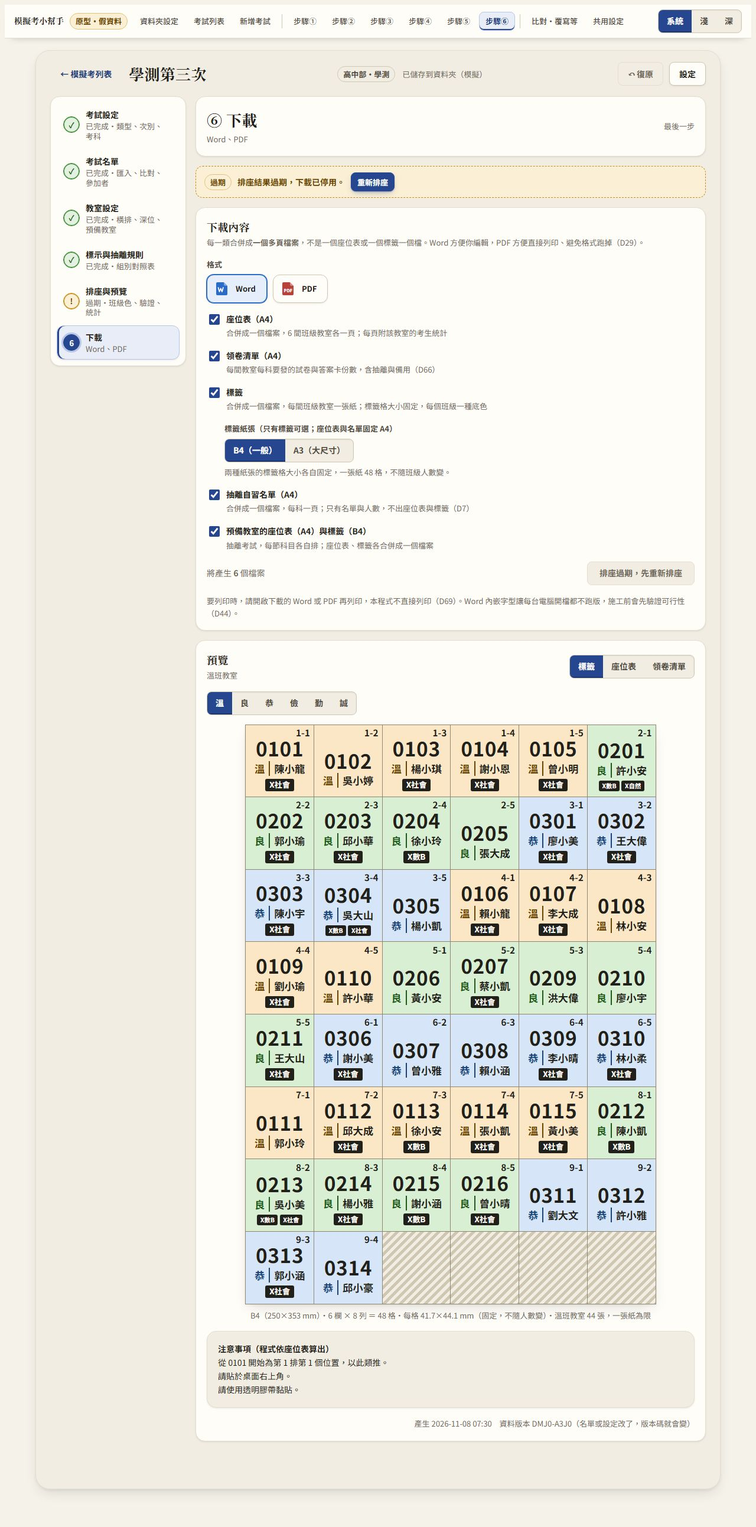
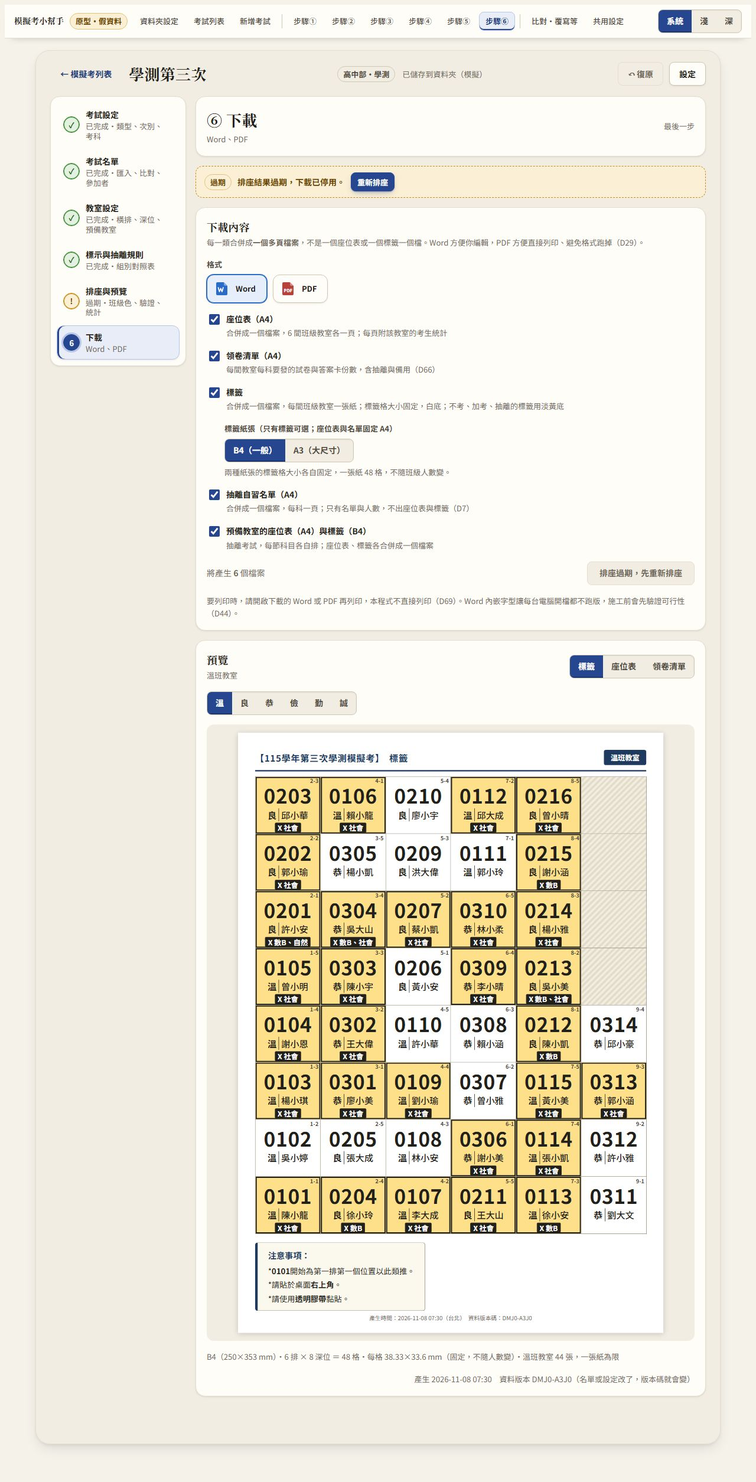
docs(design): 原型步驟⑥預覽改用真實下載檔的紙面樣式（標籤白底＋淡黃特殊格、座位表班級色、A3 7×7／B4 6×8）
標籤預覽與座位表預覽改用與 設計系統.html／htmlRender.ts 同一套 .pp 紙面（表頭、格子、小標合併、注意事項、頁尾）；範例標示同步改白底。使用者定案：紙本座位表有班級色，紙本標籤白底。示範教室 9 排×5 深位超出紙面，預覽依序重排進 6×8。

diff --git a/docs/design/mockups/原型.html b/docs/design/mockups/原型.html
@@ -483,7 +483,7 @@ table.t{border-collapse:collapse;width:100%;min-width:560px}
 .lprev-cell{display:grid;border-top:1px solid var(--cut);border-left:1px solid var(--cut)}
 .lprev-cell .lcell{height:100%}
 .lprev figcaption{font-size:12px;color:var(--text-2);margin-top:6px;line-height:1.4}
-.lcell{position:relative;display:grid;grid-template-rows:1fr auto auto;justify-items:center;align-items:center;border-right:1px solid var(--cut);border-bottom:1px solid var(--cut);padding:1.2cqw .4cqw 1.4cqw;row-gap:.9cqw;text-align:center;font-family:var(--f-no);overflow:hidden;min-width:0;color:var(--text);line-height:1.15}
+.lcell{position:relative;display:grid;grid-template-rows:1fr auto auto;justify-items:center;align-items:center;border-right:1px solid var(--cut);border-bottom:1px solid var(--cut);padding:1.2cqw .4cqw 1.4cqw;row-gap:.9cqw;text-align:center;font-family:var(--f-no);overflow:hidden;min-width:0;color:#22201B;line-height:1.15}
 .lcell .no{font-size:4.8cqw;font-weight:700;letter-spacing:.02em;font-variant-numeric:tabular-nums;padding-top:1cqw;line-height:1.1;align-self:end}
 .lcell .nm{font-size:2.5cqw;font-weight:700;white-space:nowrap;line-height:1.2}
 .lcell .tag-c{color:var(--cx);margin-right:1cqw;padding-right:1cqw;border-right:.3cqw solid var(--cx)}
@@ -492,8 +492,10 @@ table.t{border-collapse:collapse;width:100%;min-width:560px}
 .lcell .mks:has(.mk:nth-child(2)) .mk{font-size:1.5cqw;line-height:2cqw;padding:0 .5cqw;border-width:.3cqw}
 .lcell .mks:has(.mk:nth-child(3)) .mk{font-size:1.35cqw;line-height:1.7cqw;padding:0 .4cqw}
 .lcell .mk{font-size:1.9cqw;font-weight:700;padding:0 .7cqw;line-height:2.4cqw;border-radius:3px;white-space:nowrap}
-.lcell.mk-x .mk{background:var(--att-fill);color:var(--att-on);border:.4cqw solid var(--att-fill)}
-.lcell.mk-add .mk{background:var(--surface);color:var(--text);border:.4cqw solid var(--text)}
+.lcell.mk-x .mk{background:#22201B;color:#fff;border:.4cqw solid #22201B}
+.lcell.mk-add .mk{background:#fff;color:#22201B;border:.4cqw solid #22201B}
+/* 標籤白底；特殊情形（不考、加考、抽離）一律淡黃底＋深色內框＋底部小標；班級靠「班級｜姓名」小字分辨，不用班級色（使用者定案，DESIGN 第六章；座位表仍用班級色）*/
+.lcell.sp{box-shadow:inset 0 0 0 .5cqw #22201B}
 .lcell.blank{background:repeating-linear-gradient(135deg,var(--sunken) 0 5px,var(--line-2) 5px 10px)}
 /* UI-23：抽離座位表改柔和單色（深淺色都用主色淡底），班級字與座標照印，黑白列印仍分得出 */
 .chart.pull{--cw:104px;--ch:112px}
@@ -577,6 +579,58 @@ table.t{border-collapse:collapse;width:100%;min-width:560px}
 .wrap{background:var(--sunken);border-color:var(--line)}
 .t tbody tr:nth-child(even):not(.editrow):not(.gap){background:rgba(111,104,88,.06)}
 .t tbody tr:nth-child(even):not(.editrow):not(.gap):hover{background:var(--accent-soft)}
+/* ===== 步驟⑥ 預覽：真實匯出的紙面樣式（同 設計系統.html 座位表與標籤、src/export/htmlRender.ts；紙面永遠淺色，單位 mm）===== */
+.pp-stage{display:flex;justify-content:center;padding:14px;background:var(--sunken);border-radius:var(--r-md);overflow:auto}
+.pp-fit{position:relative;flex:none}
+/* 紙面：永遠淺色，單位 mm（1mm＝3.7795px） */
+.pp{--ink:#22201B;--navy:#1F3A5F;--gray:#6B6657;--cut:#8E8670;--red:#C0262D;
+  --c1:#FBE7C6;--c1i:#6B4300;--c2:#D8EFD3;--c2i:#1F5A1A;--c3:#D6E6F8;--c3i:#1A4478;
+  position:absolute;left:0;top:0;transform-origin:0 0;background:#fff;color:var(--ink);box-shadow:0 2px 12px rgba(0,0,0,.18);
+  font-family:'Noto Sans TC','Microsoft JhengHei',sans-serif;overflow:hidden}
+.pp,.pp *{box-sizing:border-box}
+.pp-gray{filter:grayscale(1)}
+.pp .pp-hd{display:flex;justify-content:space-between;align-items:flex-end;border-bottom:.8mm solid var(--navy);padding-bottom:3mm}
+.pp .pp-h1{color:var(--navy);font-weight:700;font-size:15pt;letter-spacing:.04em}
+.pp .pp-h2{font-family:'Noto Serif TC','PMingLiU',serif;font-weight:700;font-size:28pt;line-height:1.1;margin-top:1mm}
+.pp .pp-room{display:block;background:var(--navy);color:#fff;border-radius:1.2mm;padding:1.6mm 6mm;font-weight:700;font-size:16pt}
+.pp .pp-chips{display:flex;gap:2mm;flex-wrap:wrap;margin:3.5mm 0 0}
+.pp .pp-chip{border:.3mm solid var(--navy);color:var(--navy);border-radius:5mm;padding:.6mm 3.5mm;font-size:12pt;font-weight:700}
+.pp .pp-chip.s{background:var(--navy);color:#fff}
+.pp .pp-grid{display:grid;border-top:.35mm solid var(--cut);border-left:.35mm solid var(--cut);width:max-content}
+.pp.pp-seat .pp-grid{border:.7mm solid var(--ink)}
+.pp .pp-c{position:relative;display:flex;flex-direction:column;align-items:center;justify-content:center;gap:.4mm;border-right:.35mm solid var(--cut);border-bottom:.35mm solid var(--cut);text-align:center}
+.pp.pp-seat .pp-c{border-right-width:.3mm;border-bottom-width:.3mm}
+.pp .pp-co{position:absolute;right:1.1mm;top:.8mm;font-style:normal;font-weight:700;color:#4A463A;font-size:6.5pt;line-height:1;font-variant-numeric:tabular-nums}
+.pp .pp-no{font-weight:700;font-variant-numeric:tabular-nums;letter-spacing:.02em;line-height:1}
+.pp .pp-nm{font-weight:500;line-height:1.15;white-space:nowrap}
+.pp .pp-nm em{font-style:normal;font-weight:700;margin-right:1.2mm;padding-right:1.2mm;border-right:.3mm solid currentColor}
+.pp .pp-mk{display:block;font-weight:700;line-height:1.25;padding:0 1.4mm;border-radius:.6mm;white-space:nowrap}
+.pp .pp-mk.x{background:var(--ink);color:#fff;border:.3mm solid var(--ink)}
+.pp .pp-mk.add{background:#fff;color:var(--ink);border:.45mm double var(--ink)}
+.pp .pp-c.mk{box-shadow:inset 0 0 0 .7mm var(--ink)}
+.pp .pp-e{background:repeating-linear-gradient(135deg,#F1EDE0 0 1.2mm,#E2DCC8 1.2mm 2.4mm)}
+/* 格內分三區（編號區／姓名／標示區固定高），有沒有標示位置都一樣，三區之間有留白，不擠在中間 */
+.pp.pp-lab .pp-c{display:grid;grid-template-rows:1fr auto 9mm;justify-items:center;align-items:center;gap:0;padding:5mm 1mm .8mm}
+.pp.pp-lab .pp-no{align-self:end;margin-bottom:2.6mm;font-size:31pt}.pp.pp-lab .pp-nm{font-size:15pt}.pp.pp-lab .pp-mk{font-size:12pt}.pp.pp-lab .pp-co{font-size:9pt}
+.pp.pp-lab.b4 .pp-no{font-size:33pt}
+.pp.pp-seat .pp-c{display:grid;grid-template-rows:1fr auto 5.2mm;justify-items:center;align-items:center;gap:0;padding:4.5mm .5mm .8mm}
+.pp.pp-seat .pp-no{font-size:19pt}.pp.pp-seat .pp-nm{font-size:8.5pt}.pp.pp-seat .pp-mk{font-size:7.5pt}
+.pp .pp-note{margin-top:8mm;font-size:20pt;line-height:1.75;border:.3mm solid var(--cut);border-left:2.4mm solid var(--navy);border-radius:1.5mm;padding:5mm 9mm;background:#FBF8EE;width:max-content;max-width:100%}
+.pp .pp-note h4{margin:0 0 2mm;color:var(--navy);font-size:22pt}
+.pp .pp-note b{font-weight:700}
+.pp.b4 .pp-note{margin-top:5mm;font-size:13pt;padding:3mm 6mm;border-left-width:1.8mm}.pp.b4 .pp-note h4{font-size:14pt;margin-bottom:1mm}
+.pp .pp-foot{position:absolute;left:0;right:0;bottom:6mm;text-align:center;font-size:9.5pt;color:var(--gray)}
+.pp .pp-bottom{display:grid;grid-template-columns:1fr auto 1fr;align-items:center;margin-top:3mm}
+.pp .pp-bottom .l{font-size:9pt}
+.pp .pp-pod{border:.5mm solid var(--ink);padding:1.2mm 12mm;font-weight:700;font-size:13pt;letter-spacing:.6em;padding-left:calc(12mm + .6em)}
+.pp .pp-ax{display:grid;font-size:7pt;font-weight:700;color:var(--gray);text-align:center;margin-top:.8mm}
+.pp .pp-wrapg{display:grid;grid-template-columns:5mm auto;justify-content:center;gap:0 1.5mm}
+.pp .pp-ay{display:grid;font-size:7pt;font-weight:700;color:var(--gray);align-items:center;justify-items:end}
+.pp .pp-st{width:100%;border-collapse:collapse;font-size:13pt;margin-top:5mm}
+.pp .pp-st th,.pp .pp-st td{border:.3mm solid var(--cut);padding:.8mm 2mm;text-align:center}
+.pp .pp-st th{background:#F3EEDD;font-weight:700}
+.pp .pp-st td:first-child{text-align:left}
+.pp .pp-st td.t{font-weight:700}
 </style>
 
 <div class="pbar">
@@ -931,9 +985,56 @@ table.t{border-collapse:collapse;width:100%;min-width:560px}
       '<div class="acts"><button class="btn" data-mclose>取消</button><button class="btn btn-primary" id="tpldo">下載範本</button></div></div>',
       function(ev){if(ev.target.id==='tpldo'){closeModal();toast('已下載「'+file+'」（模擬）')}})}
   function lsheetHTML(room,seq,paper){
-    var A3=paper==='A3',N=48,w=A3?297:250,h=A3?420:353,cells='';
-    for(var i=0;i<N;i++){var q=seq[i];cells+=q?labelHTML(q[0],q[1]):'<div class="lcell blank" aria-label="這一格沒有標籤"></div>'}
-    return '<div class="lsheet-wrap"><div class="lsheet-box" style="width:'+(A3?100:84.2)+'%"><div class="lsheet" role="img" aria-label="'+paper+' 標籤紙預覽">'+cells+'</div></div><p class="small muted lsheet-cap">'+paper+'（'+w+'×'+h+' mm）・6 欄 × 8 列 ＝ 48 格・每格 '+(w/6).toFixed(1)+'×'+(h/8).toFixed(1)+' mm（固定，不隨人數變）・'+esc(room.name)+' '+seq.length+' 張，一張紙為限'+(seq.length>N?'；<b>超過 48 格，請減少教室座位</b>':'')+'</p></div>'}
+    /* 與真實下載檔同一版面：表頭（考試名稱＋標籤＋教室章）、格子、注意事項、頁尾（htmlRender.ts labelHtml）。
+       標籤白底；有標示（不考、加考、抽離）整格淡黃 #FFE08A＋黑內框，同類標示合併成一個小標（X 數B、社會）。
+       示範教室是 9 排×5 深位，超出紙面 6 排；預覽把座位依序由左下往上排進 6 排×8 深位（真實下載要求教室在紙面格數內）。 */
+    var A3=paper==='A3',cols=A3?7:6,rows=A3?7:8,PW=A3?297:250,PH=A3?420:353,margin=10;
+    var cw=A3?35:+((PW-2*margin)/cols).toFixed(2),ch=A3?35:33.6,padX=Math.max(margin,+((PW-cols*cw)/2).toFixed(2));
+    var e=S.cur,cells=[];
+    for(var i=0;i<cols*rows;i++)cells.push(null);
+    seq.forEach(function(q,i){var c=Math.floor(i/rows),r=i%rows;if(c<cols)cells[(rows-1-r)*cols+c]=q});
+    var g='';
+    cells.forEach(function(q){
+      if(!q){g+='<div class="pp-c pp-e" style="width:'+cw+'mm;height:'+ch+'mm"></div>';return}
+      var s=q[0],mk=marksOf(e,s),o=ovrOf(s),m={};
+      if(o)(m[o.kind==='考試'?'add':'x']=m[o.kind==='考試'?'add':'x']||{h:o.kind==='考試'?'＋':'X',s:[]}).s.push('→'+o.place);
+      else mk.forEach(function(t){var k=t.charAt(0)==='X'?'x':'add';(m[k]=m[k]||{h:t.charAt(0)==='X'?'X ':'＋',s:[]}).s.push(t.slice(1))});
+      var has=Object.keys(m).length,mks=Object.keys(m).map(function(k){return '<span class="pp-mk '+k+'">'+m[k].h+m[k].s.join('、')+'</span>'}).join('');
+      g+='<div class="pp-c'+(has?' mk':'')+'" style="width:'+cw+'mm;height:'+ch+'mm;background:'+(has?'#FFE08A':'#fff')+'"><i class="pp-co">'+q[1]+'</i><b class="pp-no">'+s.id+'</b><span class="pp-nm"><em>'+CNAME[s.c]+'</em><span>'+esc(s.name)+'</span></span>'+mks+'</div>'});
+    var first=seq[0]?seq[0][0].id:'';
+    var note='<div class="pp-note"><h4>注意事項：</h4><div>*<b>'+first+'</b>開始為第一排第一個位置以此類推。</div><div>*請貼於桌面<b>右上角</b>。</div><div>*請使用<b>透明膠帶</b>黏貼。</div></div>';
+    var title='【'+e.year+'學年第'+CN[e.round]+'次'+e.type+'模擬考】';
+    var page='<div class="pp pp-lab '+(A3?'a3':'b4')+'" style="width:'+PW+'mm;height:'+PH+'mm;padding:'+margin+'mm '+padX+'mm">'+
+      '<div class="pp-hd" style="margin-bottom:3mm"><div><div class="pp-h1">'+title+'　標籤</div></div><span class="pp-room" style="font-size:12pt;padding:1mm 4mm">'+esc(room.name)+'</span></div>'+
+      '<div class="pp-grid" style="grid-template-columns:repeat('+cols+','+cw+'mm)">'+g+'</div>'+note+
+      '<div class="pp-foot">產生時間：2026-11-08 07:30（台北）　資料版本碼：DMJ0-A3J0</div></div>';
+    return '<div class="pp-stage"><div class="pp-fit" data-w="'+PW+'" data-h="'+PH+'">'+page+'</div></div><p class="small muted lsheet-cap">'+paper+'（'+PW+'×'+PH+' mm）・'+cols+' 排 × '+rows+' 深位 ＝ '+(cols*rows)+' 格・每格 '+cw+'×'+ch+' mm（固定，不隨人數變）・'+esc(room.name)+' '+seq.length+' 張，一張紙為限'+(seq.length>cols*rows?'；<b>超過格數，請減少教室座位</b>':'')+'</p>'}
+  /* 座位表預覽：與真實下載檔同一版面（A4 直式：表頭、人數小標、格子、座標軸、講臺、統計表、頁尾；同 設計系統.html「① 座位表」）。班級色只在座位表用，紙面永遠淺色 */
+  var PBG=['#FBE7C6','#D8EFD3','#D6E6F8','#E7DCF5','#F6D6EC','#F9D5CA','#CDEDE9','#E6EDBD','#DADCF7','#EBDCCB','#DFE3E8','#F8D3DC'],PIK=['#6B4300','#1F5A1A','#1A4478','#4A2E80','#7A1C5E','#7A2A12','#0F5A52','#4C5A0A','#2F3490','#5C3A17','#2F3B48','#7A1B38'];
+  function seatPaperHTML(room,map,e,seq){
+    var cols=room.cols,rows=room.rows,cw=Math.min(24.79,+((210-30-6.5)/cols).toFixed(2)),ch=Math.min(22.57,+((297-24-95)/rows).toFixed(2)),cnt={};
+    var g='<div class="pp-grid" style="grid-template-columns:repeat('+cols+','+cw+'mm)">';
+    for(var r=rows;r>=1;r--)for(var c=1;c<=cols;c++){
+      var s=map[c+','+r];
+      if(!s){g+='<div class="pp-c pp-e" style="width:'+cw+'mm;height:'+ch+'mm"></div>';continue}
+      var mk=marksOf(e,s),o=ovrOf(s),m={},n=cc(s.c);
+      if(o)(m[o.kind==='考試'?'add':'x']=m[o.kind==='考試'?'add':'x']||{h:o.kind==='考試'?'＋':'X',s:[]}).s.push('→'+o.place);
+      else mk.forEach(function(t){var k=t.charAt(0)==='X'?'x':'add';(m[k]=m[k]||{h:t.charAt(0)==='X'?'X ':'＋',s:[]}).s.push(t.slice(1));cnt[t]=(cnt[t]||0)+1});
+      var has=Object.keys(m).length,mks=Object.keys(m).map(function(k){return '<span class="pp-mk '+k+'">'+m[k].h+m[k].s.join('、')+'</span>'}).join('');
+      g+='<div class="pp-c'+(has?' mk':'')+'" style="width:'+cw+'mm;height:'+ch+'mm;background:'+PBG[n-1]+'"><i class="pp-co">'+c+'-'+r+'</i><b class="pp-no">'+s.id+'</b><span class="pp-nm" style="color:'+PIK[n-1]+'"><em>'+CNAME[s.c]+'</em><span style="color:#22201B">'+esc(s.name)+'</span></span>'+mks+'</div>'}
+    g+='</div>';
+    var ay='<div class="pp-ay" style="grid-template-rows:repeat('+rows+','+ch+'mm)">';for(var d=rows;d>=1;d--)ay+='<span>'+d+'</span>';ay+='</div>';
+    var ax='<div class="pp-ax" style="grid-template-columns:repeat('+cols+','+cw+'mm)">';for(var c2=1;c2<=cols;c2++)ax+='<span>第'+c2+'排</span>';ax+='</div>';
+    var chips='<span class="pp-chip s">共 '+seq.length+' 人</span>'+Object.keys(cnt).map(function(t){return '<span class="pp-chip">'+(t.charAt(0)==='X'?'不考':'加考')+t.slice(1)+' '+cnt[t]+' 人</span>'}).join('');
+    var page='<div class="pp pp-seat" style="width:210mm;height:297mm;padding:12mm 15mm">'+
+      '<div class="pp-hd"><div><div class="pp-h1">【'+e.year+'學年第'+CN[e.round]+'次'+e.type+'模擬考】</div><div class="pp-h2">座位表</div></div><span class="pp-room">'+esc(room.name)+'</span></div>'+
+      '<div class="pp-chips">'+chips+'</div>'+
+      '<div class="pp-wrapg" style="margin-top:4mm">'+ay+'<div>'+g+ax+'</div></div>'+
+      '<div class="pp-bottom"><span class="l">共 '+seq.length+' 人</span><span class="pp-pod">講臺</span><span></span></div>'+
+      '<table class="pp-st">'+statTable(room,map,e)+'</table>'+
+      '<div class="pp-foot">產生時間：2026-11-08 07:30（台北）　資料版本碼：DMJ0-A3J0</div></div>';
+    return '<div class="pp-stage"><div class="pp-fit" data-w="210" data-h="297">'+page+'</div></div>'}
+  function fitPapers(){document.querySelectorAll('.pp-fit').forEach(function(f){var W=+f.dataset.w*3.7795,H=+f.dataset.h*3.7795,avail=Math.min(f.parentNode.clientWidth-28,720),sc=Math.max(.2,avail/W);f.style.width=(W*sc)+'px';f.style.height=(H*sc)+'px';if(f.firstChild)f.firstChild.style.transform='scale('+sc+')'})}
   function fitCharts(){document.querySelectorAll('.chart').forEach(function(ch){ch.style.zoom='';var wrap=ch.querySelector('.chart-wrap');if(!wrap)return;var host=ch.parentElement,avail=host.clientWidth,w=wrap.offsetWidth;if(avail>0&&w>avail)ch.style.zoom=String(Math.max(0.4,(avail-2)/w))})}
   /* ---------- 步驟共用 ---------- */
   function stepView(){
@@ -1099,7 +1200,7 @@ table.t{border-collapse:collapse;width:100%;min-width:560px}
     var e=S.cur;if(e.type==='會考')return '<div class="card stack"><div class="lab">說明</div><p class="small muted">會考沒有選考，這一步顯示「不需要」。</p></div>';
     var n=0;groups(e).forEach(function(g){subjList(e).forEach(function(s){if(rule(e,g[0],s).need)n++})});
     return '<div class="card stack"><div class="lab">待處理</div>'+(n?'<div class="alert a-warn"><span class="ico" data-i="!"></span><span>有 '+n+' 項接近一半的科目要選。</span><span></span></div>':'<div class="alert a-ok"><span class="ico" data-i="✓"></span><span>沒有要選的項目。</span><span></span></div>')+'</div>'+
-      '<div class="card stack"><div class="lab">範例標示</div><div class="lprev">'+['B4','A3'].map(function(p){var a=p==='A3',st=sortStu(D().stu).filter(function(s){return marksOf(e,s).length})[0],W=a?297:250,H=a?420:353;return '<figure><div class="lprev-box" style="width:'+(W/6*2.4).toFixed(1)+'px;height:'+(H/8*2.4).toFixed(1)+'px"><div class="lsheet-one" style="width:'+(W*2.4).toFixed(1)+'px;height:'+(H*2.4).toFixed(1)+'px"><div class="lprev-cell" style="width:'+(W/6*2.4).toFixed(1)+'px;height:'+(H/8*2.4).toFixed(1)+'px">'+(st?labelHTML(st,'1-1'):'')+'</div></div></div><figcaption><b>'+p+'</b>（'+(a?'大標籤':'小標籤')+'）<br>'+(W/6).toFixed(1)+'×'+(H/8).toFixed(1)+' mm</figcaption></figure>'}).join('')+'</div><p class="small muted">標籤上的樣子（用文字加粗框）。兩張依實際尺寸等比例並排：A3 的格子比 B4 大約寬 19%、高 19%。座位表上的樣子相同，只是不分紙張。</p></div>'}
+      '<div class="card stack"><div class="lab">範例標示</div><div class="lprev">'+['B4','A3'].map(function(p){var a=p==='A3',st=sortStu(D().stu).filter(function(s){return marksOf(e,s).length})[0],W=a?297:250,H=a?420:353;return '<figure><div class="lprev-box" style="width:'+(W/6*2.4).toFixed(1)+'px;height:'+(H/8*2.4).toFixed(1)+'px"><div class="lsheet-one" style="width:'+(W*2.4).toFixed(1)+'px;height:'+(H*2.4).toFixed(1)+'px"><div class="lprev-cell" style="width:'+(W/6*2.4).toFixed(1)+'px;height:'+(H/8*2.4).toFixed(1)+'px">'+(st?labelHTML(st,'1-1'):'')+'</div></div></div><figcaption><b>'+p+'</b>（'+(a?'大標籤':'小標籤')+'）<br>'+(W/6).toFixed(1)+'×'+(H/8).toFixed(1)+' mm</figcaption></figure>'}).join('')+'</div><p class="small muted">標籤上的樣子（用文字加粗框）。兩張依實際尺寸等比例並排：A3 的格子比 B4 大約寬 19%、高 19%。座位表另外使用班級底色，其餘相同，只是不分紙張。</p></div>'}
   /* ---------- 工作區外框 ---------- */
   function vWs(){
     var e=S.cur,view=stepView(),s=STEPS[S.step-1],wide=view.side==='';
@@ -1159,7 +1260,8 @@ table.t{border-collapse:collapse;width:100%;min-width:560px}
     var mk=marksOf(S.cur,s),o=ovrOf(s),cls='lcell',mks='',n=cc(s.c);
     if(o){cls+=o.kind==='考試'?' mk-add':' mk-x';mks='<span class="mks"><span class="mk">→'+esc(o.place)+'</span></span>'}
     else if(mk.length){cls+=mk.some(function(m){return m.charAt(0)==='X'})?' mk-x':' mk-add';mks='<span class="mks">'+mk.map(function(m){return '<span class="mk">'+m+'</span>'}).join('')+'</span>'}
-    return '<div class="'+cls+'" style="background:var(--c'+n+'-bg);--cx:var(--c'+n+'-ink)"><span class="co">'+co+'</span><span class="no">'+s.id+'</span><span class="nm"'+(s.name.length>4?' style="font-size:'+(s.name.length>5?1.7:2)+'cqw"':'')+'><span class="tag-c">'+CNAME[s.c]+'</span>'+esc(s.name)+'</span>'+mks+'</div>'}
+    var sp=!!(o||mk.length);if(sp)cls+=' sp';
+    return '<div class="'+cls+'" style="background:'+(sp?'#FFE08A':'#fff')+';--cx:#22201B"><span class="co">'+co+'</span><span class="no">'+s.id+'</span><span class="nm"'+(s.name.length>4?' style="font-size:'+(s.name.length>5?1.7:2)+'cqw"':'')+'><span class="tag-c">'+CNAME[s.c]+'</span>'+esc(s.name)+'</span>'+mks+'</div>'}
   function exportFiles(e){
     var x=S.exp,ext=x.fmt==='Word'?'docx':'pdf',d=D(),f=[],n=d.rooms.length;
     if(x.seat)f.push({n:'座位表.'+ext,p:n+' 頁（每間班級教室一頁）'});
@@ -1185,17 +1287,16 @@ table.t{border-collapse:collapse;width:100%;min-width:560px}
     function ck(k,t,sub){return '<label class="check" style="align-items:flex-start"><input type="checkbox" data-act="eck" data-k="'+k+'"'+(x[k]?' checked':'')+'><span><b>'+t+'</b><br><span class="small muted">'+sub+'</span></span></label>'}
     var ri=Math.min(S.sr||0,d.rooms.length-1),room=d.rooms[ri],map=e.seat.byRoom[ri]||{},pv=S.pv||'label';
     var seq=[];for(var c=1;c<=room.cols;c++)for(var r=1;r<=room.rows;r++){var s=map[c+','+r];if(s)seq.push([s,c+'-'+r])}
-    var prevH=pv==='rcv'?rcvHTML(e)+vcodeHTML():pv==='label'?lsheetHTML(room,seq,x.paper)+
-      '<div class="card" style="background:var(--sunken)"><b>注意事項（程式依座位表算出）</b><br>從 '+(seq[0]?seq[0][0].id:'')+' 開始為第 1 排第 1 個位置，以此類推。<br>請貼於桌面右上角。<br>請使用透明膠帶黏貼。</div>'+vcodeHTML():
-      '<div class="scroll">'+chartHTML(room,map,'【'+e.year+'學年第'+CN[e.round]+'次'+e.type+'模擬考】座位表',e.level+'　'+room.name+'　考生 '+seq.length+' 人',{ri:ri})+'</div><div class="lab" style="margin-top:8px">這間教室的統計（D40）</div><div class="scroll"><table class="t compact">'+statTable(room,map,e)+'</table></div>'+vcodeHTML();
+    var prevH=pv==='rcv'?rcvHTML(e)+vcodeHTML():pv==='label'?lsheetHTML(room,seq,x.paper)+vcodeHTML():
+      seatPaperHTML(room,map,e,seq)+vcodeHTML();
     var ready=ok&&files.length>0;
     var banner=stale?'<div class="stale-banner"><span class="badge b-warn">過期</span>排座結果過期，下載已停用。<button class="btn btn-sm btn-primary" data-act="reseat">重新排座</button></div>':(ok?'<div class="alert a-ok"><span class="ico" data-i="✓"></span><span><b>驗證通過：</b>'+checks.length+' 項檢查全部符合，可以下載。</span><span></span></div>':'<div class="alert a-err"><span class="ico" data-i="×"></span><span><b>驗證沒有通過，不能下載。</b>回 ⑤ 查看原因。</span><span></span></div>');
     var result=S.expDone?'<div class="card stack"><div class="alert a-ok"><span class="ico" data-i="✓"></span><span><b>已下載 '+S.expDone.length+' 個檔案</b>，放在「'+(S.folder||'')+'\\'+esc(e.name)+'\\下載\\」（模擬，沒有真的寫檔）。</span><span></span></div><div class="scroll"><table class="t compact"><thead><tr><th>檔案</th><th>內容</th></tr></thead><tbody>'+S.expDone.map(function(f){return '<tr><td><b>'+esc(f.n)+'</b></td><td class="muted">'+esc(f.p)+'</td></tr>'}).join('')+'</tbody></table></div>'+(x.fmt==='Word'?'<div class="alert a-warn"><span class="ico" data-i="!"></span><span>Word 檔下載後若手動編輯，就不再受驗證器保護（D29）。</span><span></span></div>':'')+'</div>':'';
     return banner+
       '<div class="card stack"><div><h3>下載內容</h3><p class="small muted">每一類合併成<b>一個多頁檔案</b>，不是一個座位表或一個標籤一個檔。Word 方便你編輯，PDF 方便直接列印、避免格式跑掉（D29）。</p></div>'+
       '<div class="row"><div class="field"><span class="label">格式</span><div class="fmts" role="radiogroup" aria-label="格式"><label class="fmt w"><input type="radio" name="efmt" data-act="efmt" data-v="Word"'+(x.fmt==='Word'?' checked':'')+'><span><svg viewBox="0 0 26 26" aria-hidden="true"><path class="ic-bg-w" d="M5 2h11l6 6v14a2 2 0 0 1-2 2H5a2 2 0 0 1-2-2V4a2 2 0 0 1 2-2z"/><path d="M16 2v4a2 2 0 0 0 2 2h4z" fill="#fff" opacity=".4"/><path d="M6.5 11l2 7 2.2-5.5L12.9 18l2-7" fill="none" stroke="#fff" stroke-width="1.8" stroke-linecap="round" stroke-linejoin="round"/></svg>Word</span></label><label class="fmt p"><input type="radio" name="efmt" data-act="efmt" data-v="PDF"'+(x.fmt==='PDF'?' checked':'')+'><span><svg viewBox="0 0 26 26" aria-hidden="true"><path class="ic-bg-p" d="M5 2h11l6 6v14a2 2 0 0 1-2 2H5a2 2 0 0 1-2-2V4a2 2 0 0 1 2-2z"/><path d="M16 2v4a2 2 0 0 0 2 2h4z" fill="#fff" opacity=".4"/><text x="12.5" y="19" text-anchor="middle" font-size="7.5" font-weight="700" fill="#fff" font-family="Noto Sans TC,sans-serif">PDF</text></svg>PDF</span></label></div></div></div>'+
-      '<div class="stack">'+ck('seat','座位表（A4）','合併成一個檔案，'+d.rooms.length+' 間班級教室各一頁；每頁附該教室的考生統計')+ck('rcv','領卷清單（A4）','每間教室每科要發的試卷與答案卡份數，含抽離與備用（D66）')+ck('label','標籤','合併成一個檔案，每間班級教室一張紙；標籤格大小固定，每個班級一種底色')+
-      '<div class="field" style="margin-left:30px"><span class="label">標籤紙張（只有標籤可選；座位表與名單固定 A4）</span><div class="seg fmtseg" role="group" aria-label="標籤紙張"><button type="button" data-act="epaper" data-v="B4" aria-pressed="'+(x.paper==='B4')+'">B4（一般）</button><button type="button" data-act="epaper" data-v="A3" aria-pressed="'+(x.paper==='A3')+'">A3（大尺寸）</button></div><span class="hint">兩種紙張的標籤格大小各自固定，一張紙 48 格，不隨班級人數變。</span></div>'+(isJ?'':ck('pull','抽離自習名單（A4）','合併成一個檔案，每科一頁；只有名單與人數，不出座位表與標籤（D7）')+ck('prepSeat','預備教室的座位表（A4）與標籤（'+x.paper+'）','抽離考試，每節科目各自排；座位表、標籤各合併成一個檔案'))+'</div>'+
+      '<div class="stack">'+ck('seat','座位表（A4）','合併成一個檔案，'+d.rooms.length+' 間班級教室各一頁；每頁附該教室的考生統計')+ck('rcv','領卷清單（A4）','每間教室每科要發的試卷與答案卡份數，含抽離與備用（D66）')+ck('label','標籤','合併成一個檔案，每間班級教室一張紙；標籤格大小固定，白底；不考、加考、抽離的標籤用淡黃底')+
+      '<div class="field" style="margin-left:30px"><span class="label">標籤紙張（只有標籤可選；座位表與名單固定 A4）</span><div class="seg fmtseg" role="group" aria-label="標籤紙張"><button type="button" data-act="epaper" data-v="B4" aria-pressed="'+(x.paper==='B4')+'">B4（一般）</button><button type="button" data-act="epaper" data-v="A3" aria-pressed="'+(x.paper==='A3')+'">A3（大尺寸）</button></div><span class="hint">兩種紙張的標籤格大小各自固定，B4 一張紙 6×8 格、A3 一張紙 7×7 格，不隨班級人數變。</span></div>'+(isJ?'':ck('pull','抽離自習名單（A4）','合併成一個檔案，每科一頁；只有名單與人數，不出座位表與標籤（D7）')+ck('prepSeat','預備教室的座位表（A4）與標籤（'+x.paper+'）','抽離考試，每節科目各自排；座位表、標籤各合併成一個檔案'))+'</div>'+
       '<div class="row" style="justify-content:space-between"><span class="muted">將產生 <b class="num">'+files.length+'</b> 個檔案</span><button class="btn btn-primary btn-lg" data-act="expgo"'+(ready?'':' disabled')+'>'+(stale?'排座過期，先重新排座':'下載 '+x.fmt)+'</button></div>'+
       '<p class="small muted">要列印時，請開啟下載的 Word 或 PDF 再列印，本程式不直接列印（D69）。Word 內嵌字型讓每台電腦開檔都不跑版，施工前會先驗證可行性（D44）。</p></div>'+result+
       '<div class="card stack"><div class="row" style="justify-content:space-between"><div><h3>預覽</h3><p class="small muted">'+room.name+'</p></div><div class="row"><div class="seg" role="group" aria-label="預覽類型"><button type="button" data-act="pv" data-v="label" aria-pressed="'+(pv==='label')+'">標籤</button><button type="button" data-act="pv" data-v="seat" aria-pressed="'+(pv==='seat')+'">座位表</button><button type="button" data-act="pv" data-v="rcv" aria-pressed="'+(pv==='rcv')+'">領卷清單</button></div></div></div>'+
@@ -1338,12 +1439,12 @@ table.t{border-collapse:collapse;width:100%;min-width:560px}
   document.addEventListener('dragleave',function(ev){var z=ev.target.closest&&ev.target.closest('#dz');if(z)z.classList.remove('over')});
   document.addEventListener('drop',function(ev){var z=ev.target.closest&&ev.target.closest('#dz');if(!z)return;ev.preventDefault();S.folder='D:\\模擬考資料';toast('已授權拖入的資料夾（模擬）');go('list')});
   document.addEventListener('keydown',function(ev){if((ev.ctrlKey||ev.metaKey)&&ev.key==='z'&&!/^(INPUT|TEXTAREA|SELECT)$/.test((document.activeElement||{}).tagName||'')&&S.screen!=='init'){ev.preventDefault();undo()}});
-  window.addEventListener('resize',fitCharts);
+  window.addEventListener('resize',function(){fitCharts();fitPapers()});
   var lastKey='';
   function render(){
     CACHE={};
     var v=S.screen==='init'?vInit():S.screen==='list'?vList():S.screen==='new'?vNew():S.screen==='settings'?vSettings():['special','cmp','ovr','prep','find'].indexOf(S.screen)>-1?vSpecial():vWs();
-    $('#app').innerHTML=v;nav();fitCharts();
+    $('#app').innerHTML=v;nav();fitCharts();fitPapers();
     var key=S.screen+'|'+S.step+'|'+(S.cur?S.cur.id:'');if(key!==lastKey)window.scrollTo(0,0);lastKey=key}
   function go(s){S.screen=s;render()}
 
